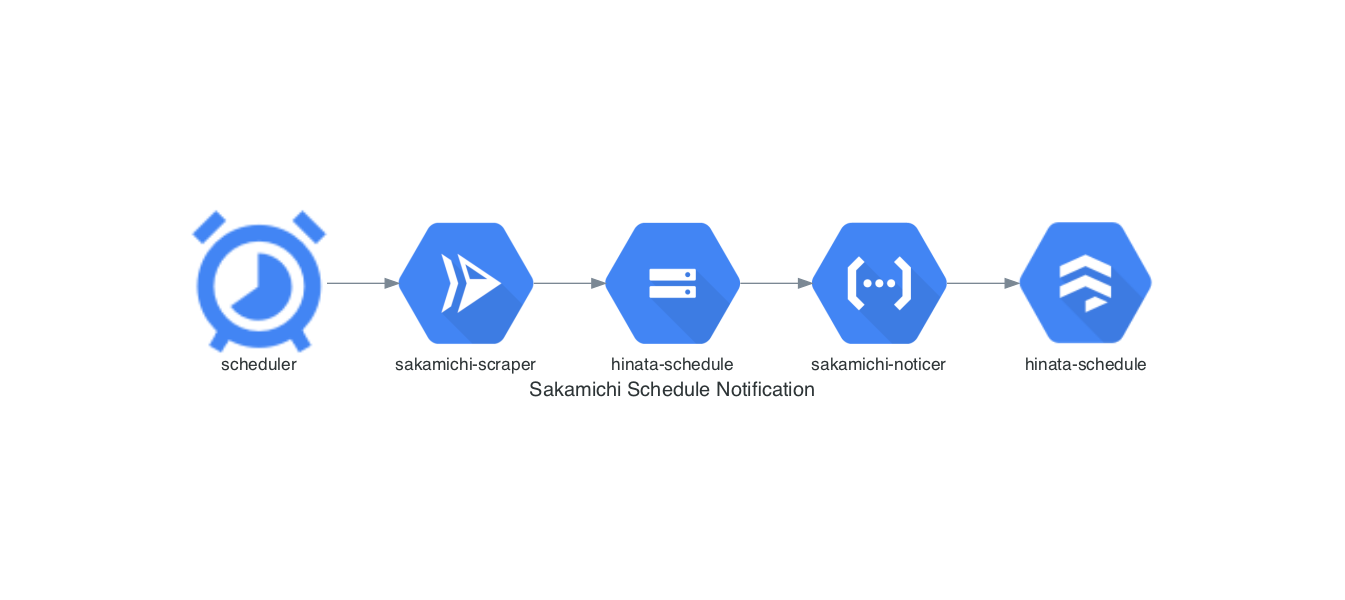
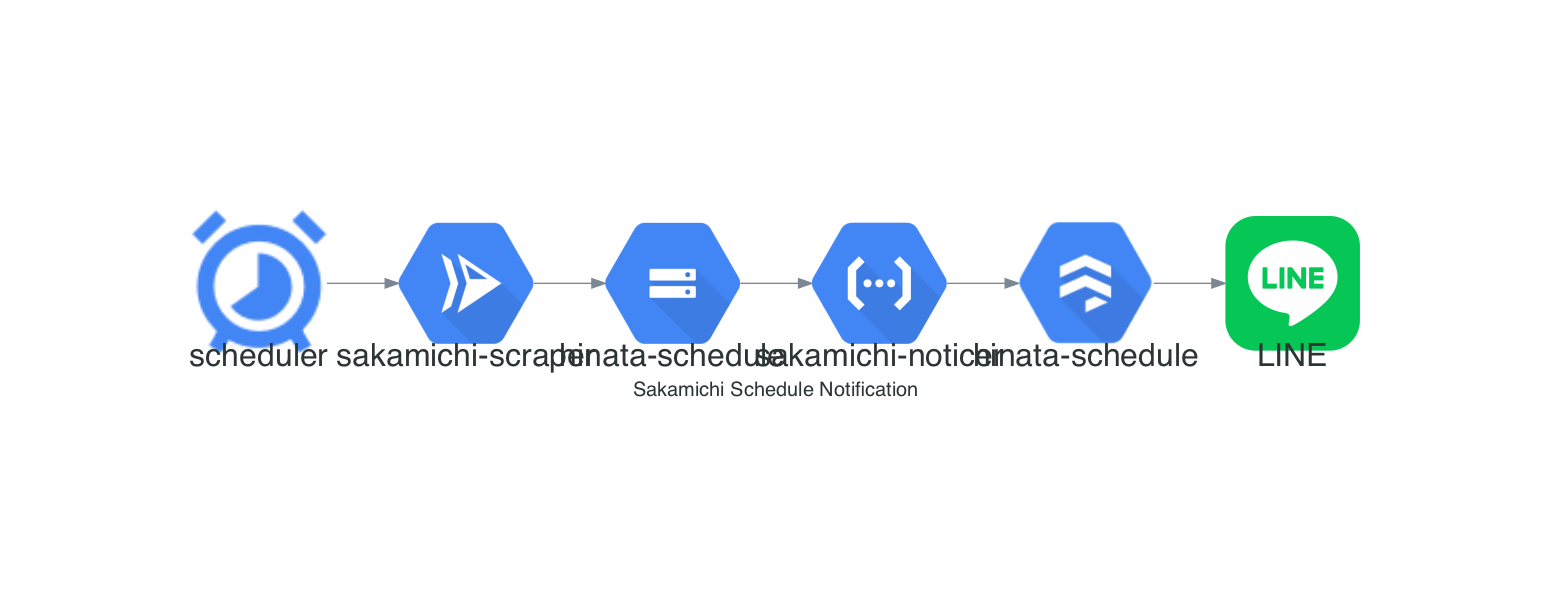
update architecture diagram

Changed region(s): [[0.1249, 0.36, 0.8743, 0.66]]

diff --git a/architecture_diagram/diagram.py b/architecture_diagram/diagram.py
@@ -1,4 +1,7 @@
+from pathlib import Path
+
 from diagrams import Diagram
+from diagrams.custom import Custom
 from diagrams.gcp.compute import Functions, Run
 from diagrams.gcp.database import Firestore
 from diagrams.gcp.devtools import Scheduler
@@ -7,7 +10,7 @@ from diagrams.gcp.storage import Storage
 with Diagram(
     "Sakamichi Schedule Notification",
     filename="output/architecture_diagram",
-    show=False,
+    show=True,
 ):
     (
         Scheduler("scheduler")
@@ -15,4 +18,5 @@ with Diagram(
         >> Storage("hinata-schedule")
         >> Functions("sakamichi-noticer")
         >> Firestore("hinata-schedule")
+        >> Custom("LINE", str(Path("./resources/LINE_Brand_icon.png").resolve()))
     )
